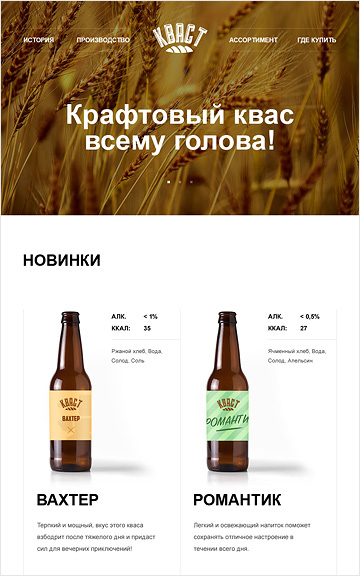
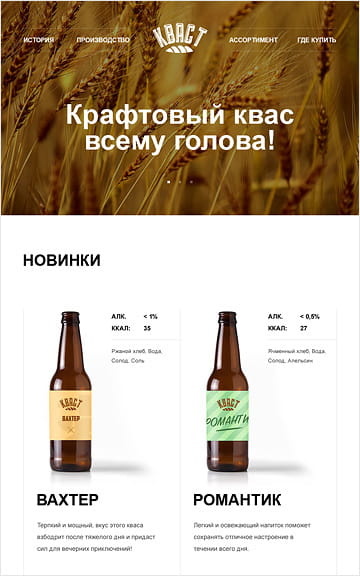
Испраляю ошибки. Экспортирую картинки, оптимизирую, исправляю код

diff --git a/catalog.html b/catalog.html
@@ -11,7 +11,8 @@
 
     <header>
         <nav>
-            <a href="index.html"><img src="img/nerds-logo.svg" alt="Логотип проекта Нёрдс" title="Нёрдс" width="160" height="65">
+            <a href="index.html">
+                <img src="img/nerds-logo.svg" alt="Логотип проекта Нёрдс" title="Нёрдс" width="160" height="65">
             </a>
             <ul>
                 <li><a href="#">Студия</a></li>
@@ -20,7 +21,7 @@
                 <li><a href="#">Контакты</a></li>
             </ul>
             <a href="#">
-                <img src="img/cart-icon.png" alt="Корзина проекта Нёрдс" title="Корзина проекта Нёрдс" width="15" height="15">
+                <img src="img/cart-icon.svg" alt="Корзина проекта Нёрдс" title="Корзина проекта Нёрдс" width="15" height="15">
             </a>
             <a href="#">Корзина</a>
         </nav>
@@ -41,7 +42,6 @@
             <ul>
                 <li>
                     <a href="#">
-                        <img src="img/browser.svg" alt="" title="" width="360" height="40">
                         <img src="img/img-sedona.jpg" alt="Шаблон сайта для туристов Sedona" title="Шаблон сайта для туристов Sedona"
                             width="360" height="570">
                     </a>
@@ -56,7 +56,6 @@
 
                 <li>
                     <a href="#">
-                        <img src="img/browser.png" alt="" title="" width="360" height="40">
                         <img src="img/img-pink.jpg" alt="Картинка шаблона Pink App" title="Картинка шаблона Pink App" width="360"
                             height="570">
                     </a>
@@ -71,7 +70,6 @@
 
                 <li>
                     <a href="#">
-                        <img src="img/browser.png" alt="" title="" width="360" height="40">
                         <img src="img/img-barbershop.jpg" alt="Шаблон сайта для барбершопа Borodinski"
                             title="Шаблон сайта для барбершопа Borodinski" width="360" height="570">
                     </a>
@@ -86,7 +84,6 @@
 
                 <li>
                     <a href="#">
-                        <img src="img/browser.png" alt="" title="" width="360" height="40">
                         <img src="img/img-mishka.jpg" alt="Шаблон сайта ручной работы Mishka" title="Шаблон сайта ручной работы Mishka"
                             width="360" height="570">
                     </a>
@@ -101,7 +98,6 @@
 
                 <li>
                     <a href="#">
-                        <img src="img/browser.png" alt="" title="" width="360" height="40">
                         <img src="img/img-aplus.jpg" alt="Шаблон сайта A Plus" title="Шаблон сайта A Plus" width="360" height="570">
                     </a>
                     <div>
@@ -115,7 +111,6 @@
 
                 <li>
                     <a href="#">
-                        <img src="img/browser.png" alt="" title="" width="360" height="40">
                         <img src="img/img-kvast.jpg" alt="Шаблон сайта крафтового кваса Кваст"
                             title="Шаблон сайта крафтового кваса Кваст" width="" height="">
                     </a>
@@ -134,9 +129,9 @@
 
     <footer>
         <ul>
-            <li><a href="#"><img src="img/vk-icon.png"></a></li>
-            <li><a href="#"><img src="img/fb-icon.png"></a></li>
-            <li><a href="#"><img src="img/insta-icon.png"></a></li>
+            <li><a href="#"><img src="img/vk-icon.svg"></a></li>
+            <li><a href="#"><img src="img/fb-icon.svg"></a></li>
+            <li><a href="#"><img src="img/insta-icon.svg"></a></li>
           </ul>
         <div>
             <p>Давайте дружить, это выгодно!</p>

diff --git a/index.html b/index.html
@@ -18,7 +18,7 @@
         <li><a href="#">Контакты</a></li>
       </ul>
       <a href="#">
-        <img src="img/cart-icon.png" alt="Корзина проекта Нёрдс" title="Корзина проекта Нёрдс" width="15" height="15">
+        <img src="img/cart-icon.svg" alt="Корзина проекта Нёрдс" title="Корзина проекта Нёрдс" width="15" height="15">
       </a>
       <a href="#">Корзина</a>
     </nav>
@@ -38,9 +38,7 @@
             <a href="#">Веб-сайты</a>
           </h3>
           <p>Мир никогда не будет прежним после того как увидит ваш сайт!</p>
-          <a href="#">Заказать
-            <img src="img/button-1.png" alt="Кнопка заказать" width="160" height="50">
-          </a>
+          <a href="#">Заказать</a>
         </li>
 
         <li>
@@ -51,9 +49,8 @@
             <a href="#">Приложения</a>
           </h3>
           <p>Покорите топ-10 приложений в AppStore и Google Play</p>
-          <a href="#">Заказать
-            <img src="img/button-2.png" alt="Кнопка заказать" width="160" height="50">
-          </a>        </li>
+          <a href="#">Заказать</a>
+        </li>
 
         <li>
           <a href="#">
@@ -63,18 +60,17 @@
             <a href="#">Презентации</a>
           </h3>
           <p>Вы даже не подозреваете, насколько вы изумительны!</p>
-          <a href="#">Заказать
-            <img src="img/button-3.png" alt="Кнопка заказать" width="160" height="50">
-          </a>        </li>
+          <a href="#">Заказать</a>        
+        </li>
       </ul>
     </section>
   </main>
 
   <footer>
     <ul>
-      <li><a href="#"><img src="img/vk-icon.png"></a></li>
-      <li><a href="#"><img src="img/fb-icon.png"></a></li>
-      <li><a href="#"><img src="img/insta-icon.png"></a></li>
+      <li><a href="#"><img src="img/vk-icon.svg"></a></li>
+      <li><a href="#"><img src="img/fb-icon.svg"></a></li>
+      <li><a href="#"><img src="img/insta-icon.svg"></a></li>
     </ul>
     <div>
       <p>Давайте дружить, это выгодно!</p>
